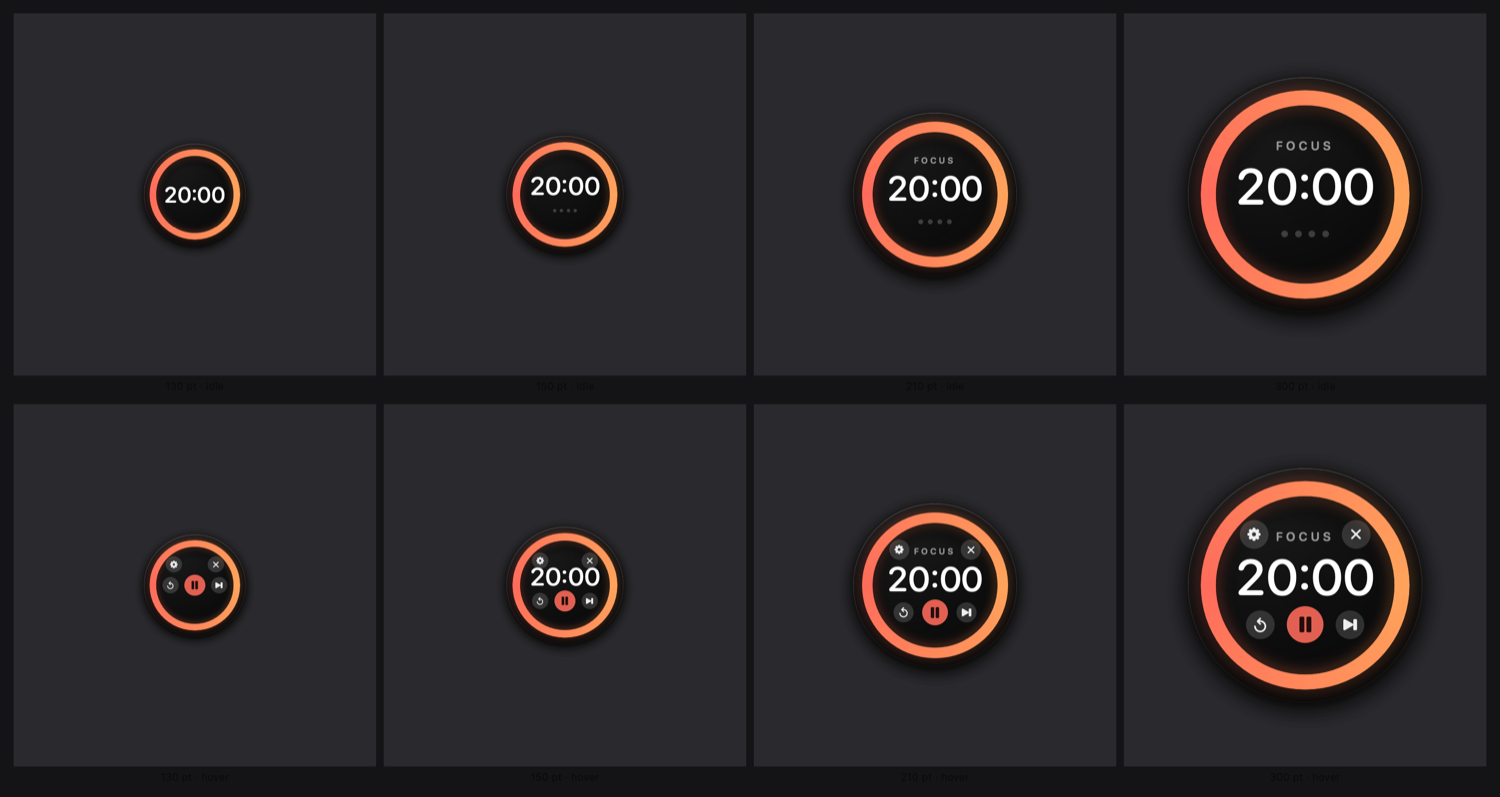
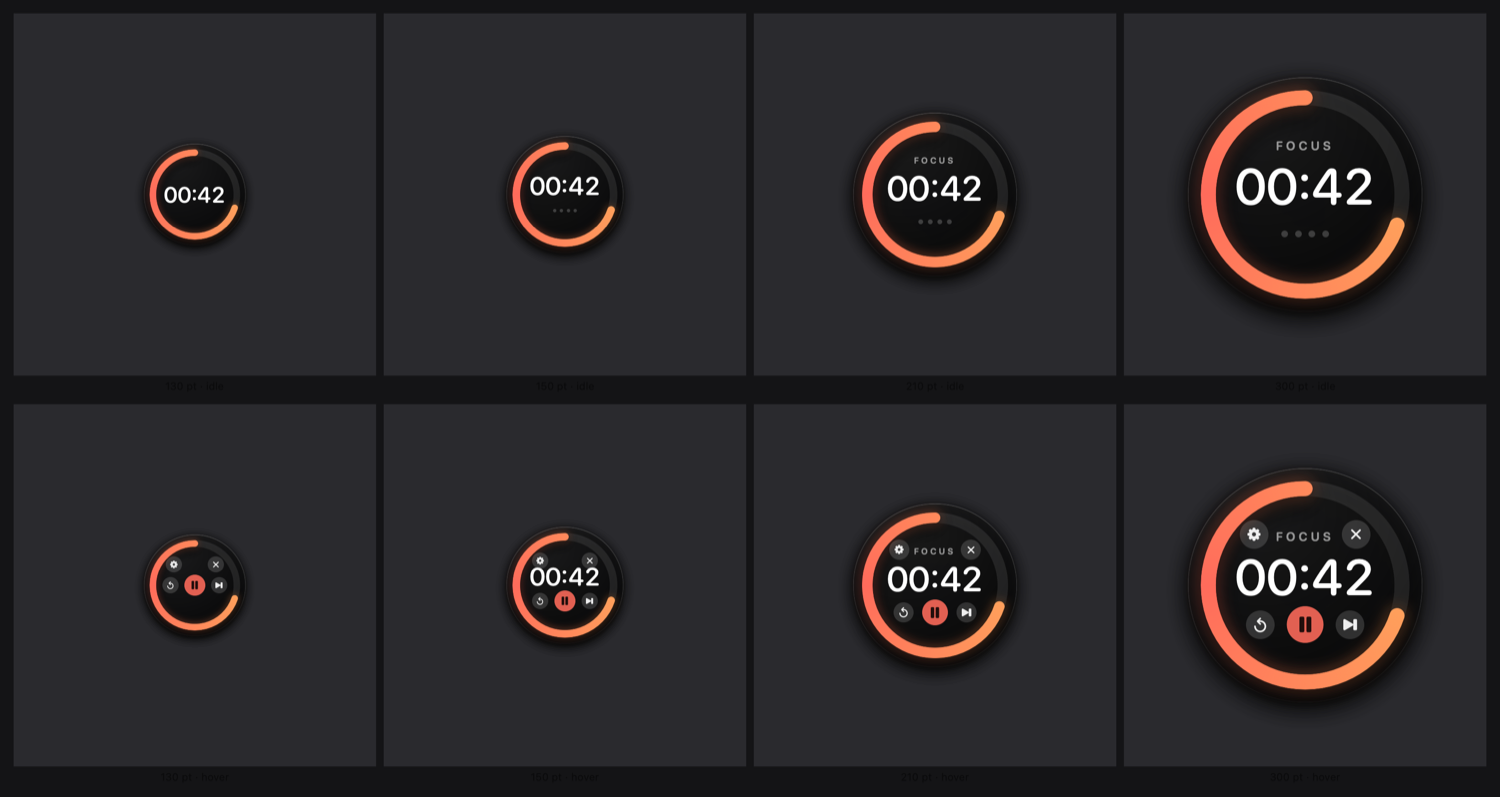
Drain the ring clockwise instead of anticlockwise
Trimming [0, progress] pins the arc's start at 12 o'clock and retreats its end
anticlockwise, so the ring emptied against the direction a clock hand sweeps.
Trimming [1-progress, 1] pins the end at 12 instead, so the gap opens clockwise
from the top.

Also fixes the preview harness, which built its engines inside a ForEach body.
SwiftUI evaluates that lazily at render time, so every clock started after the
settle wait and every ring rendered full — the screenshots could not show what
the arc actually did.

diff --git a/tools/main.swift b/tools/main.swift
@@ -11,35 +11,49 @@ NSApp.setActivationPolicy(.prohibited)
 let store = UserDefaults(suiteName: "dev.local.pomodoro.preview")!
 UserDefaults.standard.removePersistentDomain(forName: "dev.local.pomodoro.preview")
 
-func shot(size: Double, theme: String, bg: Color, hover: Bool, label: String) -> some View {
-    let sPrefs = Prefs(defaults: UserDefaults(suiteName: "preview.\(size).\(hover)")!)
-    sPrefs.size = size
-    sPrefs.themeID = theme
-    sPrefs.focusMinutes = 20                  // arc lands mid-sweep after the wait
-    let engine = TimerEngine(prefs: sPrefs, stats: Stats(defaults: store))
-    engine.start()
-    return VStack(spacing: 4) {
-        ZStack {
-            bg
-            PomodoroView(engine: engine, prefs: sPrefs, previewHover: hover)
-        }
-        .frame(width: 380, height: 380)
-        Text(label).font(.system(size: 11)).foregroundStyle(.secondary)
+// The engines must be started BEFORE the wait below. Building them inside a
+// ForEach body doesn't work: SwiftUI evaluates that lazily at render time, so
+// every clock would start after the wait and every ring would render full.
+final class DialSpec: Identifiable {
+    let id: String
+    let prefs: Prefs
+    let engine: TimerEngine
+    let size: Double
+    let hover: Bool
+
+    init(size: Double, hover: Bool, theme: String) {
+        self.id = "\(size)-\(hover)"
+        self.size = size
+        self.hover = hover
+        let p = Prefs(defaults: UserDefaults(suiteName: "preview.\(size).\(hover)")!)
+        p.size = size
+        p.themeID = theme
+        p.focusMinutes = 1              // 60s phase
+        self.prefs = p
+        self.engine = TimerEngine(prefs: p, stats: Stats(defaults: store))
     }
 }
 
-let sizes: [Double] = [130, 150, 210, 300]
+let dialSizes: [Double] = [130, 150, 210, 300]
+let specs: [DialSpec] = dialSizes.flatMap { s in
+    [false, true].map { DialSpec(size: s, hover: $0, theme: "ember") }
+}
+specs.forEach { $0.engine.start() }
+
 let sheet = VStack(spacing: 12) {
-    HStack(spacing: 8) {
-        ForEach(sizes, id: \.self) { s in
-            shot(size: s, theme: "ember", bg: Color(hex: 0x2A2A2E), hover: false,
-                 label: "\(Int(s)) pt · idle")
-        }
-    }
-    HStack(spacing: 8) {
-        ForEach(sizes, id: \.self) { s in
-            shot(size: s, theme: "ember", bg: Color(hex: 0x2A2A2E), hover: true,
-                 label: "\(Int(s)) pt · hover")
+    ForEach([false, true], id: \.self) { hover in
+        HStack(spacing: 8) {
+            ForEach(specs.filter { $0.hover == hover }) { spec in
+                VStack(spacing: 4) {
+                    ZStack {
+                        Color(hex: 0x2A2A2E)
+                        PomodoroView(engine: spec.engine, prefs: spec.prefs, previewHover: hover)
+                    }
+                    .frame(width: 380, height: 380)
+                    Text("\(Int(spec.size)) pt · \(hover ? "hover" : "idle")")
+                        .font(.system(size: 11)).foregroundStyle(.secondary)
+                }
+            }
         }
     }
 }
@@ -47,7 +61,7 @@ let sheet = VStack(spacing: 12) {
 .background(Color(hex: 0x141416))
 
 // Give the running engines a moment so the ring is partly depleted.
-RunLoop.main.run(until: Date().addingTimeInterval(4.2))
+RunLoop.main.run(until: Date().addingTimeInterval(18))   // 60s phase -> ~70% left
 
 // ImageRenderer is main-actor isolated; top-level code already runs on the
 // main thread, so assert that rather than hopping.

diff --git a/src/PomodoroView.swift b/src/PomodoroView.swift
@@ -132,12 +132,12 @@ struct PomodoroView: View {
             // Glow pass underneath the real stroke; it's the glow that fades
             // when paused, not the colour — dimming the colour looked muddy.
             Circle()
-                .trim(from: 0, to: progress)
+                .trim(from: 1 - progress, to: 1)
                 .stroke(gradient, style: StrokeStyle(lineWidth: lineWidth, lineCap: .round))
                 .blur(radius: 6 * u)
                 .opacity(engine.isRunning ? 0.55 : 0.12)
             Circle()
-                .trim(from: 0, to: progress)
+                .trim(from: 1 - progress, to: 1)
                 .stroke(gradient, style: StrokeStyle(lineWidth: lineWidth, lineCap: .round))
                 .opacity(engine.isRunning ? 1 : 0.9)
         }
